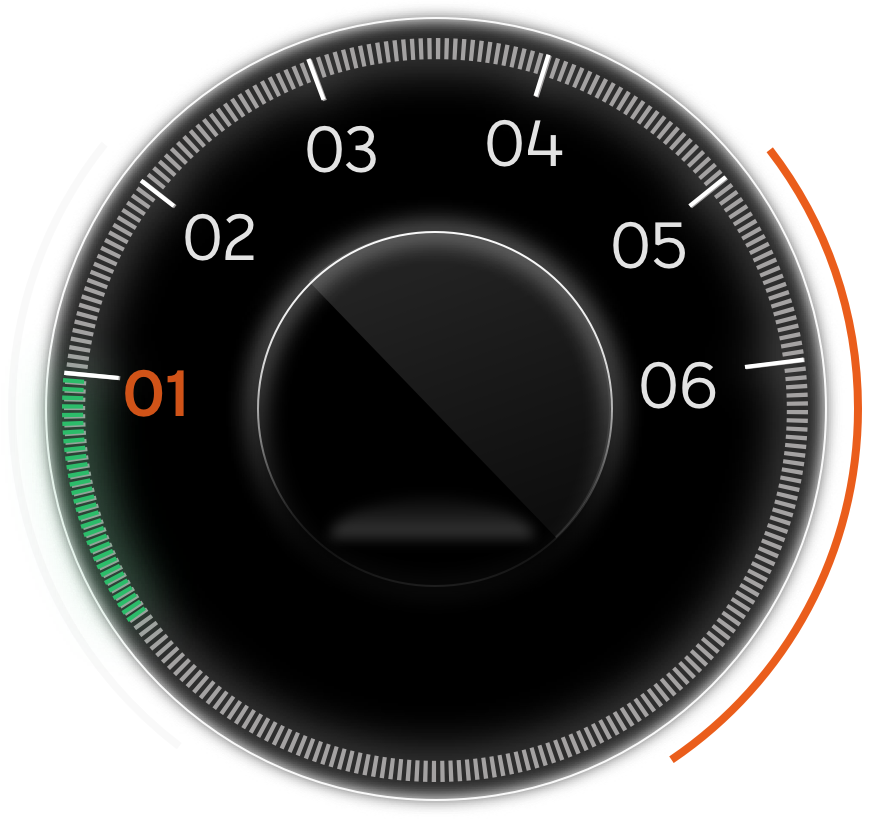
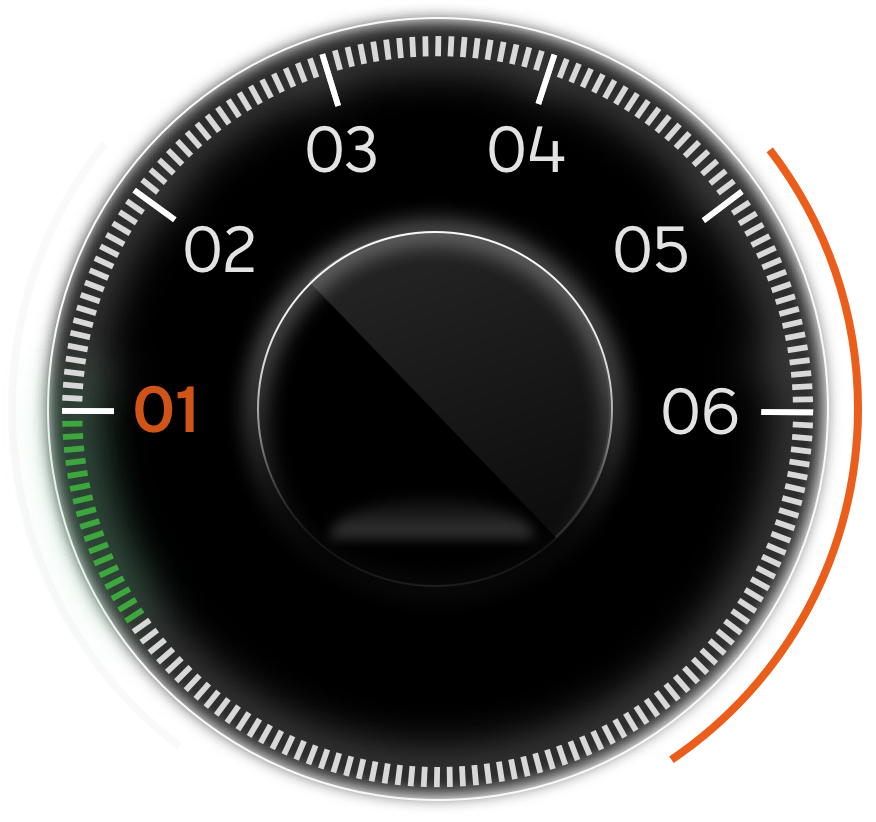
fix: update sphere + tiny tweaks

Changed region(s): [[0.0308, 0.0304, 0.9555, 0.9732], [0.5548, 0.1217, 0.6473, 0.2129]]

diff --git a/src/app/kombi/kombi.component.ts b/src/app/kombi/kombi.component.ts
@@ -34,31 +34,9 @@ export class KombiComponent implements OnInit {
   }
 
   getAngle(index: number): number {
-    let resultAngle = 0;
-    switch (index){
-      case -1:
-        resultAngle = -30;
-        break;
-      case 0:
-        resultAngle = 0;
-        break;
-      case 1:
-        resultAngle = 40;
-        break;
-      case 2:
-        resultAngle = 70;
-        break;
-      case 3:
-        resultAngle = 105;
-        break;
-      case 4:
-        resultAngle = 145;
-        break;
-      case 5:
-        resultAngle = 180;
-        break;
-    }
-    return resultAngle;
+    const resultAngle = 0;
+    if (index === -1) { return -30; }
+    else { return index * 36; }
   }
 
   nextStep(newIndex: number): void {

diff --git a/src/app/kombi/kombi.component.scss b/src/app/kombi/kombi.component.scss
@@ -2,7 +2,7 @@ $ripple-color: #0bcff2;
 .kombi-container {
   .button-test {
     margin: 1rem 2rem;
-    font-size: 2rem;
+    font-size: .8rem;
     color: white;
     font-family: SeatBcn-Bold;
     background-color: transparent;
@@ -88,7 +88,6 @@ $ripple-color: #0bcff2;
     display: flex;
     justify-content: center;
     bottom: 32%;
-    //align-items: flex-end;
     img{
       width: 25rem;
       position: absolute;
